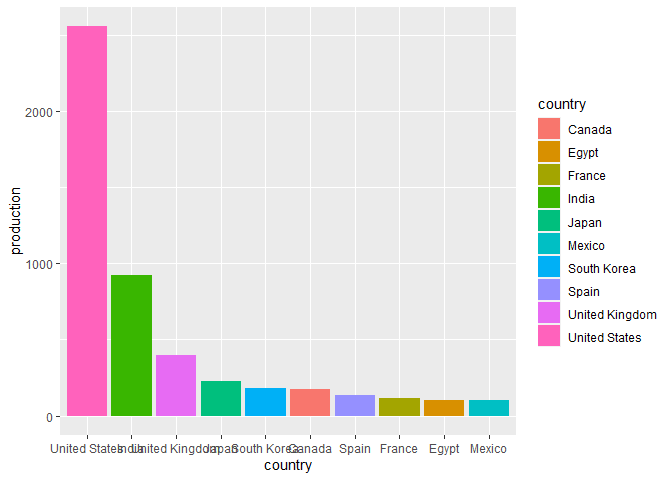
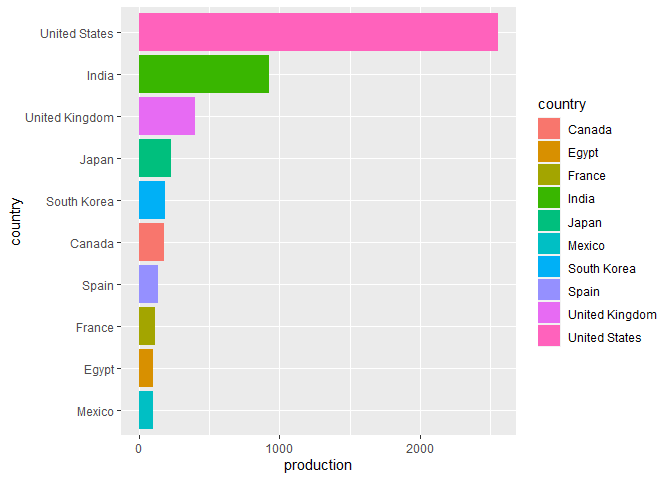
d

Changed region(s): [[0.0312, 0.0, 0.7812, 1.0], [0.0, 0.4062, 0.0312, 0.5312]]

diff --git a/Netflix.md b/Netflix.md
@@ -57,7 +57,8 @@ netflix_titles %>%
 
 ![](Netflix_files/figure-gfm/year-1.png)<!-- -->
 
-What are the most prolific countries? Below are the top 10.
+What are the most prolific countries? Below are the top 10. US is
+followed by India and UK.
 
 ``` r
 Top10 <- netflix_titles %>%
@@ -66,9 +67,30 @@ Top10 <- netflix_titles %>%
   arrange(desc(n)) %>%
   slice(1:10) 
 Top10 %>%
-  ggplot(aes(x=reorder(country,-n),y=n,fill=country)) +
+  ggplot(aes(y=reorder(country,n),x=n,fill=country)) +
   geom_col() +
-  labs(x="country",y="production")
+  labs(y="country",x="production")
 ```
 
 ![](Netflix_files/figure-gfm/country-1.png)<!-- -->
+
+Breaking up into types, Japan and South Korea have significantly more TV
+shows than movies. UK is about half and half. Other countries have
+significantly more movies than TV shows, with India the most prominent
+followed by Egypt. Another analytic article suggests that this might be
+the result of market research that Netflix did in different countries.
+e.g., India has a renown film industry (Bollywood).
+
+``` r
+netflix_titles %>%
+  filter(country == "United States" | country == "India" | country == "United Kingdom" | country == "Japan" | country == "South Korea" | country == "Canada" | country == "Spain" | country == "France" | country == "Egypt" | country == "Mexico") %>%
+  ggplot(aes(y=factor(country,level=c("United States", "India", "United Kingdom", "Japan", "South Korea", "Canada", "Spain", "France", "Egypt", "Mexico")),fill=type)) +
+  geom_bar(position="fill") +
+  labs(y="country",x="production") +
+  scale_y_discrete(limits=rev)
+```
+
+![](Netflix_files/figure-gfm/top10-1.png)<!-- -->
+
+This is a very interesting dataset! I have learned more about Netflix’s
+production in different parts of the world.
